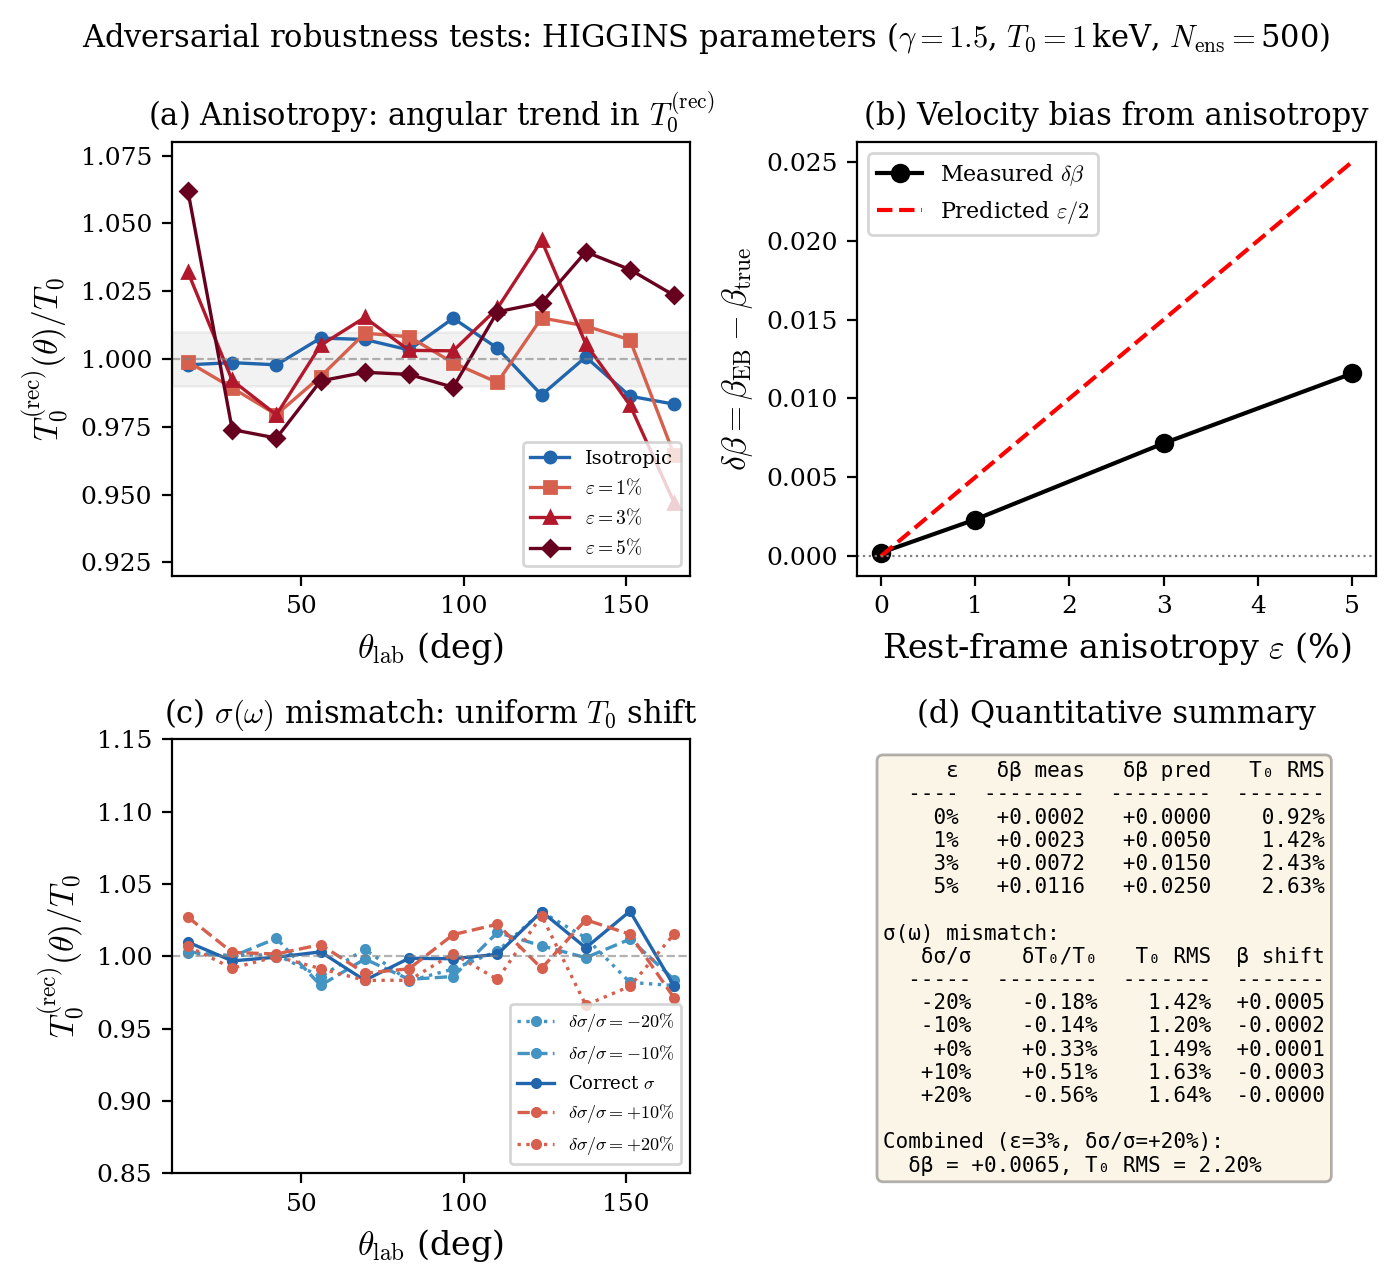
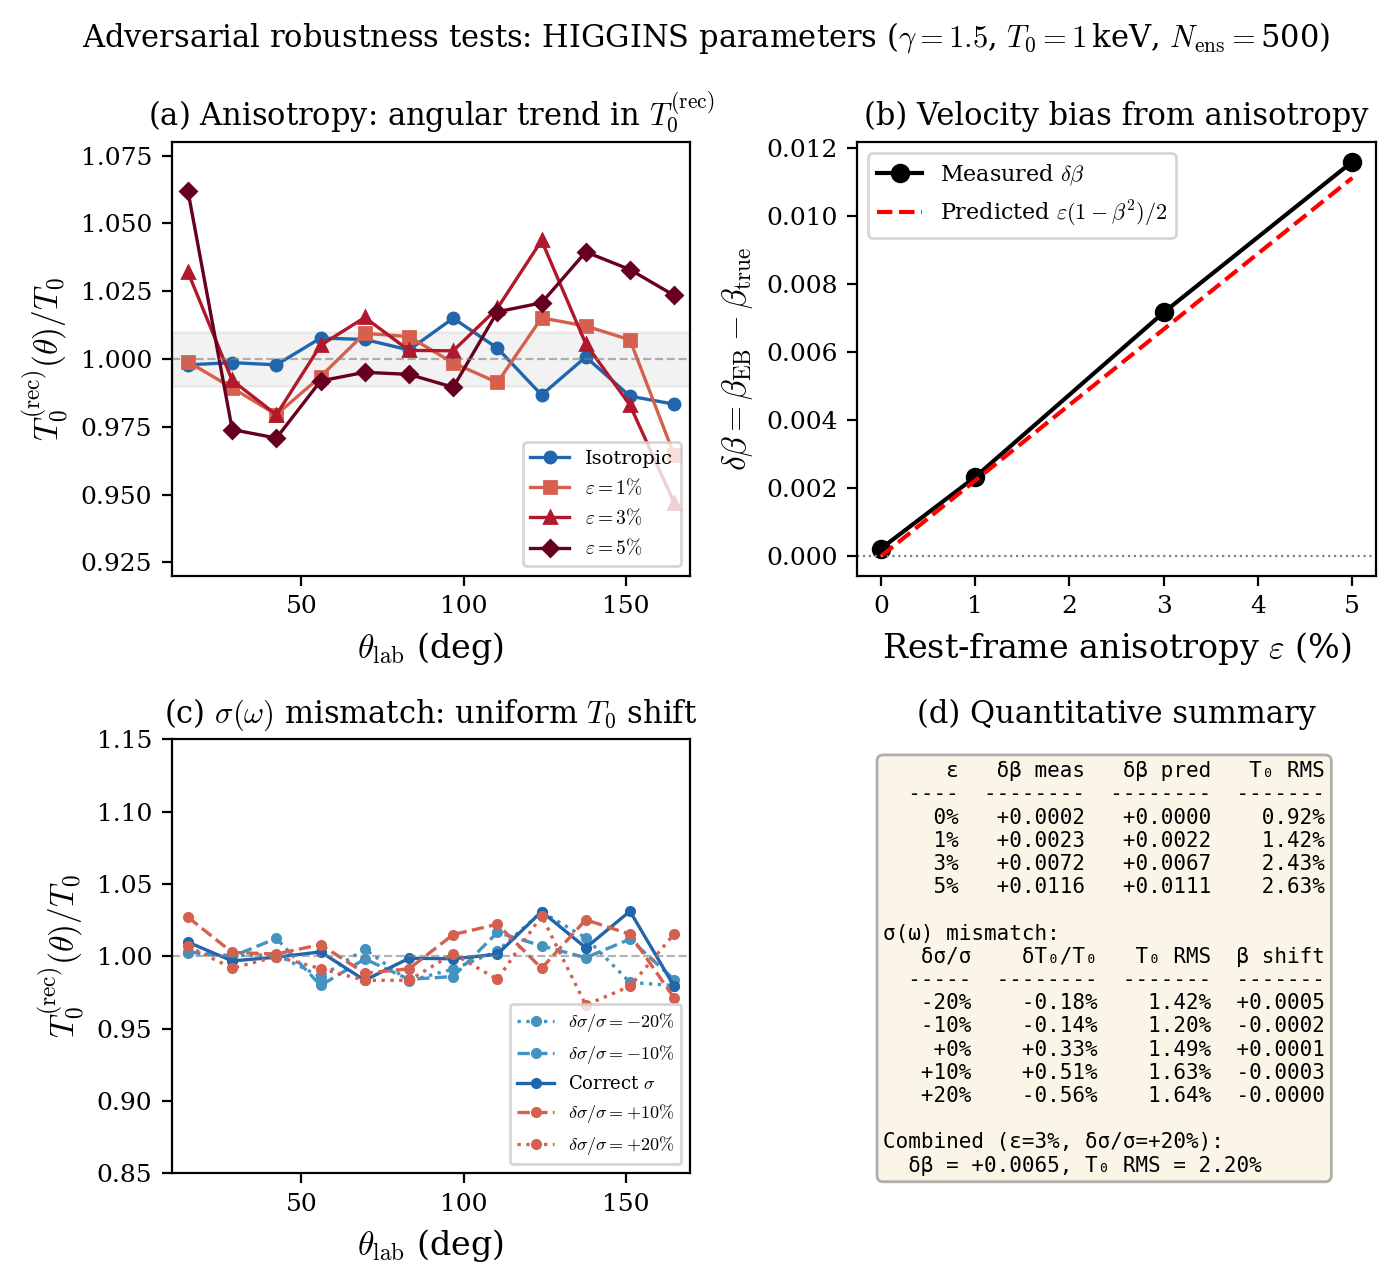
update

diff --git a/em_spectroscopy/adversarial_sim.py b/em_spectroscopy/adversarial_sim.py
@@ -257,7 +257,7 @@ for eps in eps_values:
         'delta_beta': delta_beta
     }
     print(f"    β_EB = {beta_eb:.5f} (δβ = {delta_beta:+.5f}, "
-          f"predicted ε/2 = {eps/2:+.5f})")
+          f"predicted ε(1-β²)/2 = {eps*(1-BETA_TRUE**2)/2:+.5f})")
     print(f"    T₀ mean = {T0_mean:.1f}, RMS spread = {T0_rms:.2f}%")
 
 # --- Test B: σ mismatch ---
@@ -330,7 +330,7 @@ ax = axes[0, 1]
 eps_arr = np.array(eps_values)
 delta_betas = np.array([aniso_results[e]['delta_beta'] for e in eps_values])
 ax.plot(eps_arr * 100, delta_betas, 'ko-', ms=6, lw=1.5, label='Measured $\\delta\\beta$')
-ax.plot(eps_arr * 100, eps_arr / 2.0, 'r--', lw=1.5, label='Predicted $\\varepsilon/2$')
+ax.plot(eps_arr * 100, eps_arr * (1 - BETA_TRUE**2) / 2.0, 'r--', lw=1.5, label='Predicted $\\varepsilon(1-\\beta^2)/2$')
 ax.set_xlabel(r'Rest-frame anisotropy $\varepsilon$ (%)')
 ax.set_ylabel(r'$\delta\beta = \beta_{\rm EB} - \beta_{\rm true}$')
 ax.set_title('(b) Velocity bias from anisotropy')
@@ -375,7 +375,7 @@ rows.append(f"  {'ε':>4s}  {'δβ meas':>8s}  {'δβ pred':>8s}  {'T₀ RMS':>7
 rows.append(f"  {'':->4s}  {'':->8s}  {'':->8s}  {'':->7s}")
 for eps in eps_values:
     r = aniso_results[eps]
-    rows.append(f"  {eps:4.0%}  {r['delta_beta']:+8.4f}  {eps/2:+8.4f}  "
+    rows.append(f"  {eps:4.0%}  {r['delta_beta']:+8.4f}  {eps*(1-BETA_TRUE**2)/2:+8.4f}  "
                 f"{r['T0_rms']:6.2f}%")
 
 rows.append(f"\nσ(ω) mismatch:")
